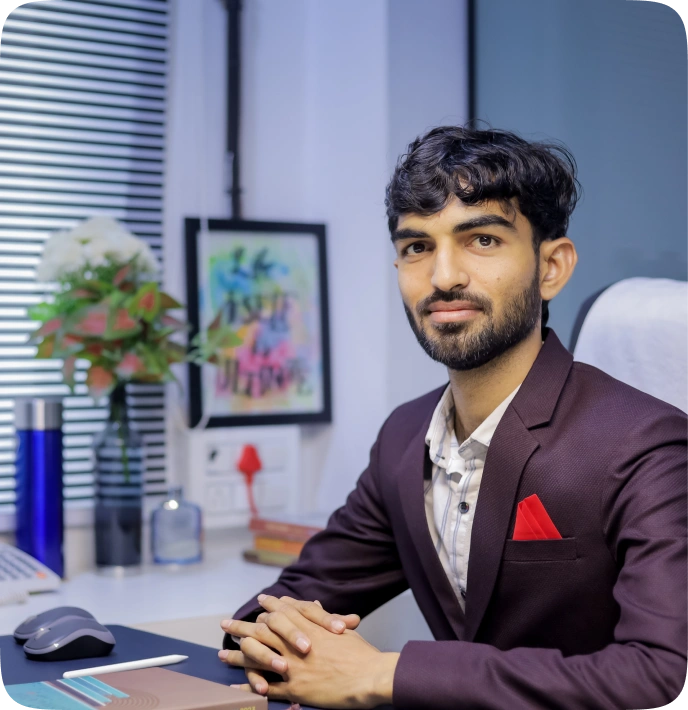
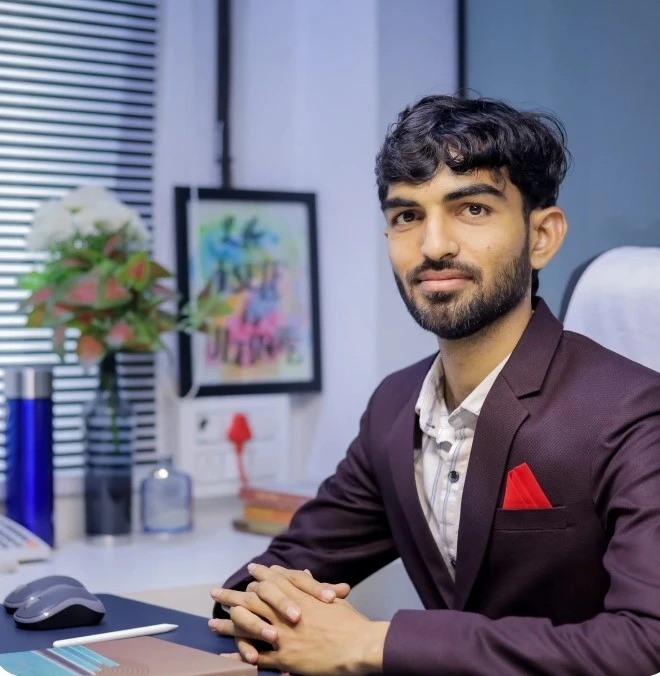
Toster Add

diff --git a/src/pages/about/Ceo.js b/src/pages/about/Ceo.js
@@ -5,12 +5,12 @@ import monilsir from "../../assets/images/about/TPPS0075 1.webp";
 import Harshadsir from "../../assets/images/about/Mask group.webp";
 import logo from "../../assets/images/about/Group 387.webp";
 import CEOBox from "./CEOBox";
-import Dev1 from "../../../src/assets/images/about/dev1.webp"
-import Dev2 from "../../../src/assets/images/about/dev2.webp"
-import Dev3 from "../../../src/assets/images/about/dev3.webp"
-import Dev4 from "../../../src/assets/images/about/dev4.webp"
-import Dev5 from "../../../src/assets/images/about/dev5.webp"
-import Dev7 from "../../../src/assets/images/about/dev7.webp"
+import Dev1 from "../../../src/assets/images/about/dev1.webp";
+import Dev2 from "../../../src/assets/images/about/dev2.webp";
+import Dev3 from "../../../src/assets/images/about/dev3.webp";
+import Dev4 from "../../../src/assets/images/about/dev4.webp";
+import Dev5 from "../../../src/assets/images/about/dev5.webp";
+import Dev7 from "../../../src/assets/images/about/dev7.webp";
 
 const itemData = [
   {
@@ -20,7 +20,7 @@ const itemData = [
   },
   {
     img: Harshadsir,
-    name: "Harshad Kakdiya",
+    name: "Harshad Kakadiya",
     position: "Co-Founter & CEO",
   },
 ];
@@ -65,39 +65,38 @@ function Ceo() {
     <>
       <div style={{ margin: "40px 0px" }}>
         <Box px={{ xs: "2rem", sm: "4rem", md: "6rem", xl: "8rem" }}>
-          <Grid container xl={12}>
-            <Grid item lg={8}>
+          <Grid container direction={'row'} justifyContent={'center'}>
+            <Grid item lg={8} >
               <Typography
                 variant="h3"
                 sx={{
                   fontWeight: "600",
-                  fontSize: "53px",
+                  fontSize: "45px",
+                  textAlign:"center",
                   lineHeight: "82.5px",
                 }}
               >
                 Meet the Founders
               </Typography>
               <Typography
-                variant="body1"
-                sx={{ fontSize: "19.5px" }}
+                sx={{ fontSize: "16px" ,textAlign:'center'}}
                 my={2}
                 color={theme.palette.gray}
               >
                 Our founding team started their journeys in the corporate world.
                 They then moved on to build their own startups before coming
-                together to form JBS Technology. They studied lean product development
-                through building startups from the ground up with very few
-                resources. This is why when you build a product with us it will
-                always be streamlined to the most important features for your
-                user.
+                together to form JBS Technology. They studied lean product
+                development through building startups from the ground up with
+                very few resources. This is why when you build a product with us
+                it will always be streamlined to the most important features for
+                your user.
               </Typography>
             </Grid>
           </Grid>
-          <Grid container justifyContent="start" spacing={3} py={3}>
+          <Grid container justifyContent="center" spacing={3} py={3}>
             {itemData.map((item, index) => (
-              <Grid item lg={3} sm={4} xs={12} key={index}>
+              <Grid item lg={3} sm={4} xs={12} key={index} justifyContent="center" spacing={3} py={3}>
                 <CEOBox
-                  
                   image={item.img}
                   name={item.name}
                   position={item.position}
@@ -105,13 +104,14 @@ function Ceo() {
               </Grid>
             ))}
           </Grid>
-          <Grid container xl={12}>
+          <Grid container xl={12} direction={'row'} justifyContent={'center'}>
             <Grid item lg={8}>
               <Typography
                 variant="h3"
                 sx={{
                   fontWeight: "600",
-                  fontSize: "53px",
+                  textAlign:'center',
+                  fontSize: "45px",
                   lineHeight: "82.5px",
                 }}
               >
@@ -119,7 +119,7 @@ function Ceo() {
               </Typography>
               <Typography
                 variant="body1"
-                sx={{ fontSize: "19.5px" }}
+                sx={{ fontSize: "16px" ,textAlign:'center'}}
                 my={2}
                 color={theme.palette.gray}
               >
@@ -132,7 +132,8 @@ function Ceo() {
             </Grid>
           </Grid>
           <Box
-            sx={{ display: "flex", alignItems: "center", margin: "10px 0px" }}
+            sx={{ display: "flex", alignItems: "center", margin: "10px 0px" ,justifyContent:
+            "center"}}
           >
             <img
               src={logo}
@@ -151,7 +152,7 @@ function Ceo() {
               Development
             </Typography>
           </Box>
-          <Grid container justifyContent="start" spacing={3} py={3}>
+          <Grid container justifyContent="center" spacing={3} py={3}>
             {staff.map((item, index) => (
               <Grid item lg={3} sm={6} xs={12} key={index}>
                 <CEOBox
@@ -163,12 +164,12 @@ function Ceo() {
             ))}
           </Grid>
           <Box
-            sx={{ display: "flex", alignItems: "center", margin: "10px 0px" }}
+            sx={{ display: "flex", alignItems: "center", margin: "10px 0px",justifyContent:'center' }}
           >
             <img
               src={logo}
               alt="icone"
-              style={{ width: "49px", height: "49" }}
+              style={{ width: "49px", height: "49px" }}
             />
             <Typography
               variant="h6"
@@ -182,7 +183,7 @@ function Ceo() {
               UI / UX Designer
             </Typography>
           </Box>
-          <Grid container justifyContent="start" spacing={3} py={3}>
+          <Grid container justifyContent="center" spacing={3} py={3}>
             {staff_2.map((item, index) => (
               <Grid item lg={3} sm={4} xs={12} key={index}>
                 <CEOBox

diff --git a/src/pages/Contact Us/ContactUs.js b/src/pages/Contact Us/ContactUs.js
@@ -1,14 +1,18 @@
-import React from "react";
+import React, { useState } from "react";
 import { useFormik } from "formik";
 import * as Yup from "yup";
 import ContactImg from "../../assets/images/Contact/Contact-Us_image.webp";
-import { Grid, TextField, Button, Box } from "@mui/material";
-import { TitleAnimation } from "./TitleAnimation ";
+import { Grid, TextField, Button, Box, CircularProgress } from "@mui/material";
 import { useTheme } from "@emotion/react";
 import axios from "axios";
+import { TitleAnimation } from "./TitleAnimation ";
+import { ToastContainer, toast } from "react-toastify";
+import "react-toastify/dist/ReactToastify.css";
 
 function ContactUs() {
   const theme = useTheme();
+  const [isSubmitting, setIsSubmitting] = useState(false);
+
   const validationSchema = Yup.object({
     firstName: Yup.string().required("First Name is required"),
     lastName: Yup.string().required("Last Name is required"),
@@ -19,6 +23,7 @@ function ContactUs() {
     subject: Yup.string().required("Subject is required"),
     message: Yup.string().required("Message is required"),
   });
+
   const Formik = useFormik({
     initialValues: {
       firstName: "",
@@ -30,19 +35,28 @@ function ContactUs() {
     },
     validationSchema: validationSchema,
     onSubmit: async (values, { resetForm }) => {
+      setIsSubmitting(true); 
       try {
-        await axios.post(
+        const response = await axios.post(
           "https://jbs-institut-backend.onrender.com/api/user-form",
           values
         );
-        resetForm();
+        if (response.status === 200) {
+          toast.success(response.data.message);
+          resetForm();
+        }
       } catch (error) {
-        console.error("Error submitting form:", error);
+        console.error("Error submitting form:", error.data.message);
+      }
+      finally {
+        setIsSubmitting(false); 
       }
     },
   });
+
   return (
     <>
+      <ToastContainer />
       <div
         id="bannerSlider"
         className="position-relative"
@@ -134,6 +148,7 @@ function ContactUs() {
                       label="Phone number"
                       variant="outlined"
                       value={Formik.values.contact}
+                      inputProps={{maxLength: 10}}
                       onChange={Formik.handleChange}
                       onBlur={Formik.handleBlur}
                       error={
@@ -189,7 +204,7 @@ function ContactUs() {
                       color="primary"
                       disabled={!Formik.isValid}
                     >
-                      Send Message
+                      {isSubmitting ? <CircularProgress size={24} /> : "Send Message"}
                     </Button>
                   </Grid>
                 </Grid>

diff --git a/src/pages/about/MoreAbout.js b/src/pages/about/MoreAbout.js
@@ -32,6 +32,7 @@ function MoreAbout() {
                                     borderRadius: "15px",
                                     height: "100%",
                                     transition: " 0.5s",
+                                    boxShadow: "rgba(149, 157, 165, 0.2) 0px 8px 24px",
                                     cursor: "pointer",
                                     "&:hover": {
                                         transform: "translateY(-10px)",
@@ -72,6 +73,7 @@ function MoreAbout() {
                                     p: "25px",
                                     borderRadius: "15px",
                                     height: "100%",
+                                    boxShadow: "rgba(149, 157, 165, 0.2) 0px 8px 24px",
                                     transition: " 0.5s",
                                     cursor: "pointer",
                                     "&:hover": {
@@ -112,6 +114,7 @@ function MoreAbout() {
                                     borderRadius: "15px",
                                     height: "100%",
                                     transition: " 0.5s",
+                                    boxShadow: "rgba(149, 157, 165, 0.2) 0px 8px 24px",
                                     cursor: "pointer",
                                     "&:hover": {
                                         transform: "translateY(-10px)",

diff --git a/src/pages/about/CEOBox.js b/src/pages/about/CEOBox.js
@@ -4,7 +4,7 @@ import { useTheme } from "@emotion/react";
 function CEOBox({ image, name, position }) {
   const theme = useTheme();
   return (
-    <Card sx={{ margin: "3px 0px",cursor:"pointer" }}>
+    <Card sx={{ margin: "3px 0px",cursor:"pointer",borderRadius:'17px'}}>
       <CardMedia component="img" height="140" image={image} alt={name} />
       <CardContent sx={{ padding: "8px 16px" }}>
         <Typography
